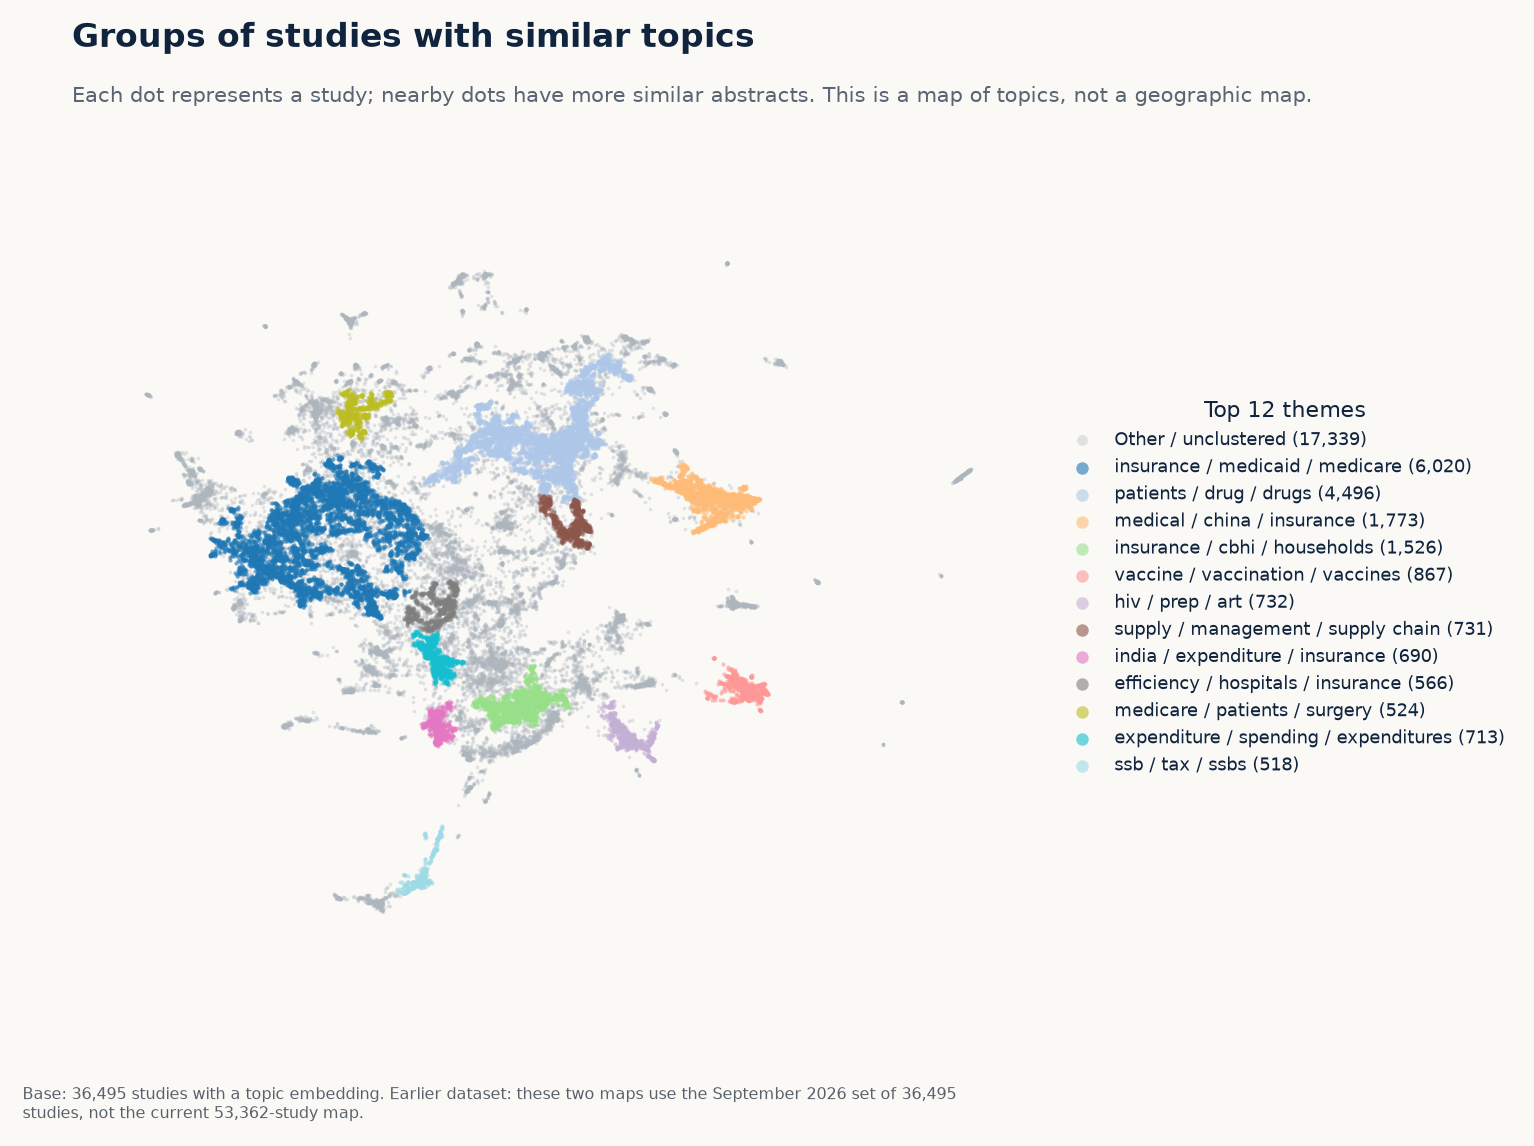
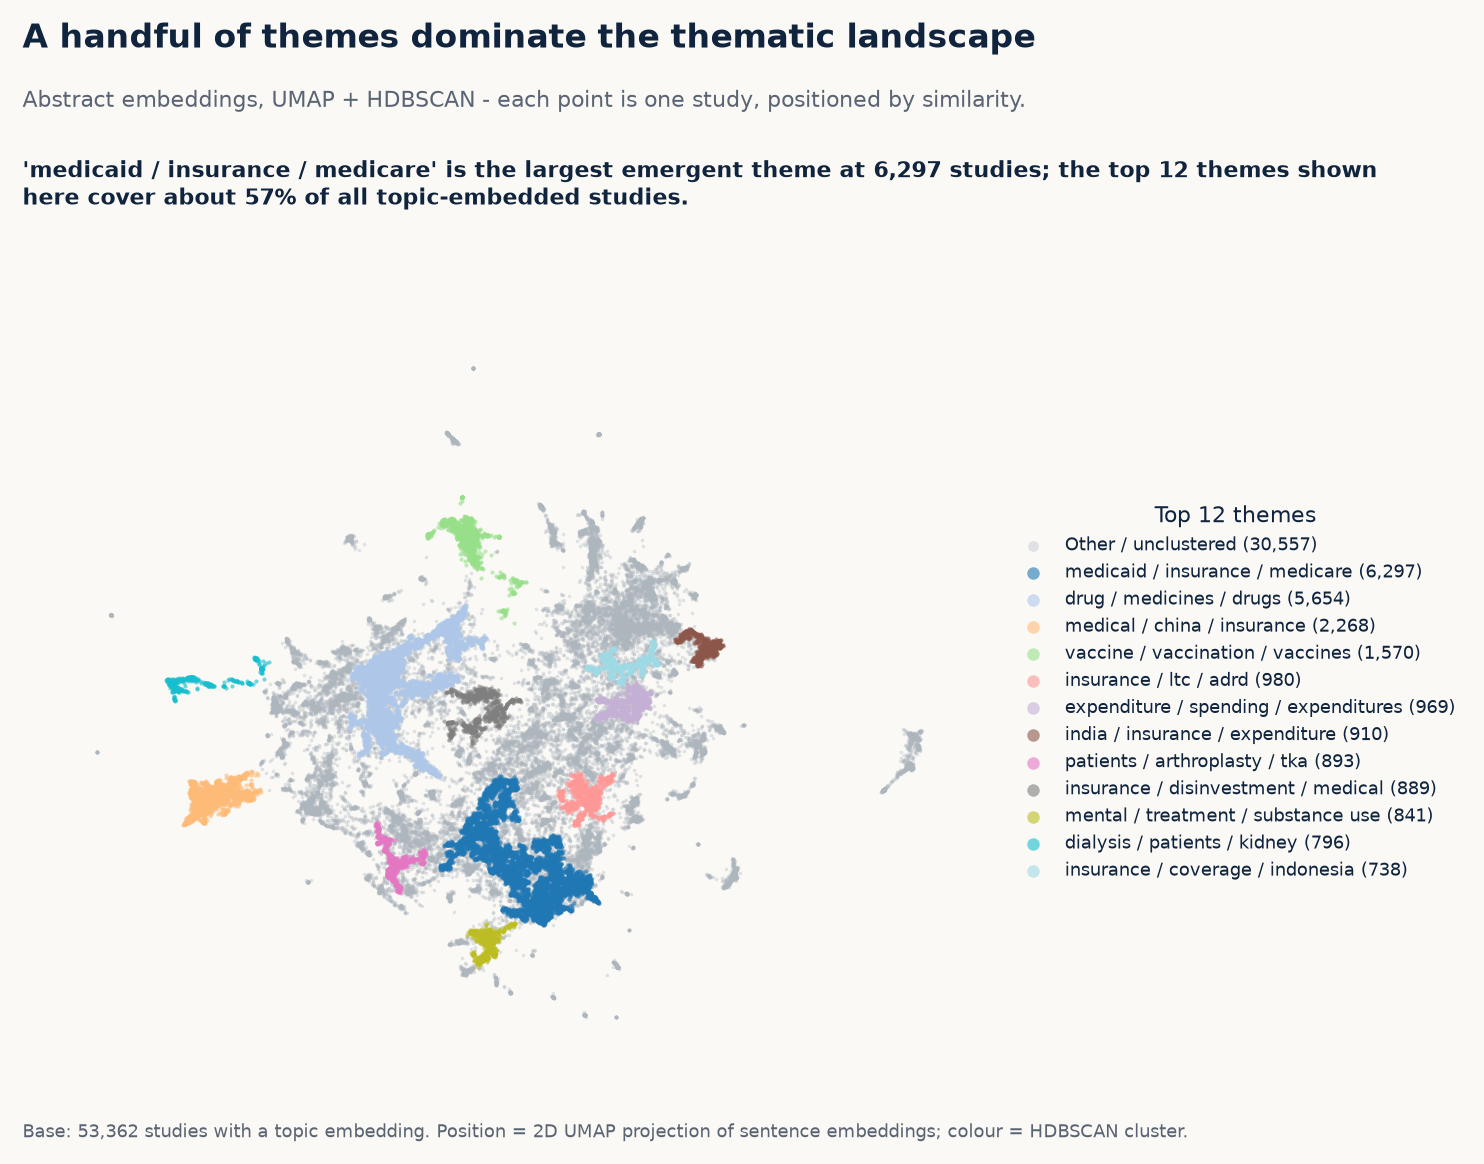
Rebuild topic maps from v2.4 coordinates
build_figures_v2_4.py now reads hff_topic_coordinates_v2_4.csv, so
fig_topicmap and fig_topicmap_income cover all 53,362 v2.4 studies.
Drop the earlier-dataset warning and update base counts in the gallery;
retire keep_v5_topicmap_figures_v2_4.py.

diff --git a/docs/dex_hff/build_figures_v2_4.py b/docs/dex_hff/build_figures_v2_4.py
@@ -80,6 +80,8 @@ if "--only" in sys.argv:
 # with/without second-opinion check the v2.2 README asks for on function results.
 RAW_CSV = DEX / "v2_4_1" / "hff_v2_4_1_site.csv"
 SOURCE_NAME = "HFF dataset v2.4.1"
+# v2.4 model map positions (record_id, x, y, topic_cluster_id), from the dataset team
+TOPIC_MAP_CSV = DEX / "v2_4 from Lucas" / "hff_topic_coordinates_v2_4.csv"
 
 REQUIRED_INPUTS = [
     DATA / "dict.json",
@@ -90,7 +92,7 @@ REQUIRED_INPUTS = [
     DATA / "countries.json",
     DATA / "content.json",
     RAW_CSV,
-    DEX / "topic_map.csv",
+    TOPIC_MAP_CSV,
     DEX / "F03_Total_DAH_forecast_1990-2030.xlsx",
     DEX / "F07_DAH_by_source_change_2024-2025.xlsx",
     DEX / "F11_Total_health_spending_per_person_by_WB_income_group_2000-2030.xlsx",
@@ -3551,9 +3553,10 @@ content = load("content.json")
 # actually kept in sync with the pipeline, dropping one fragile external
 # dependency.
 # ---------------------------------------------------------------------------
-have_topics = RAW_CSV.exists() and (DEX / "topic_map.csv").exists()
+have_topics = RAW_CSV.exists() and TOPIC_MAP_CSV.exists()
 if have_topics:
-    topic_map = pd.read_csv(DEX / "topic_map.csv")
+    topic_map = (pd.read_csv(TOPIC_MAP_CSV, usecols=["record_id", "x", "y", "topic_cluster_id"])
+                 .rename(columns={"topic_cluster_id": "cluster"}))
     topic_map = topic_map[topic_map["record_id"].isin(ID_TO_IDX)].copy()
 
     tc_raw = pd.read_csv(RAW_CSV, low_memory=False, usecols=["record_id", "topic_cluster_id", "topic_cluster_label",

diff --git a/docs/dex_hff/keep_v5_topicmap_figures_v2_4.py b/docs/dex_hff/keep_v5_topicmap_figures_v2_4.py
@@ -13,6 +13,10 @@ Run LAST, after build_figures_v2_4.py, build_funder_types_v2_4.py, build_fcas_ou
 and build_open_access_v2_4.py:
     python docs/dex_hff/keep_v5_topicmap_figures_v2_4.py
 """
+import sys
+sys.exit("Retired: build_figures_v2_4.py now draws both topic maps from "
+         "v2_4 from Lucas/hff_topic_coordinates_v2_4.csv. Do not run this script.")
+
 import json
 import subprocess
 from pathlib import Path
